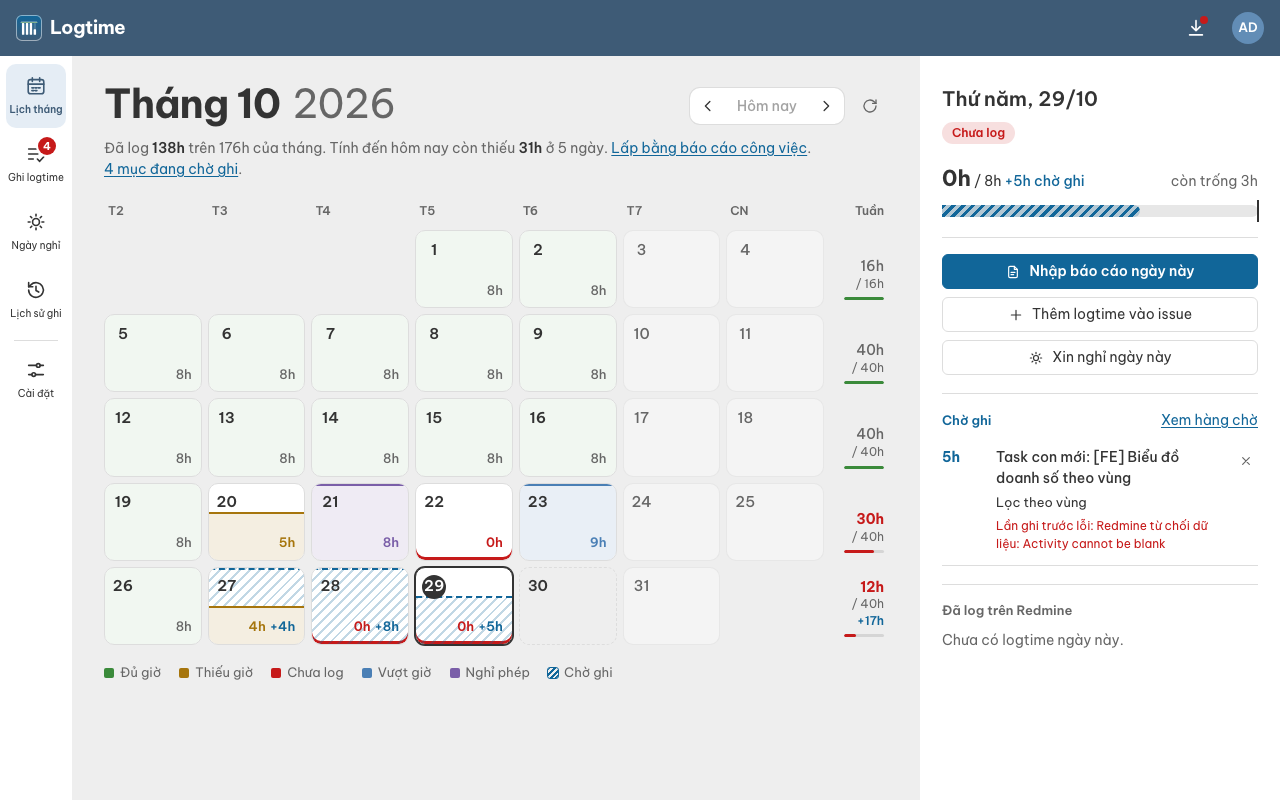
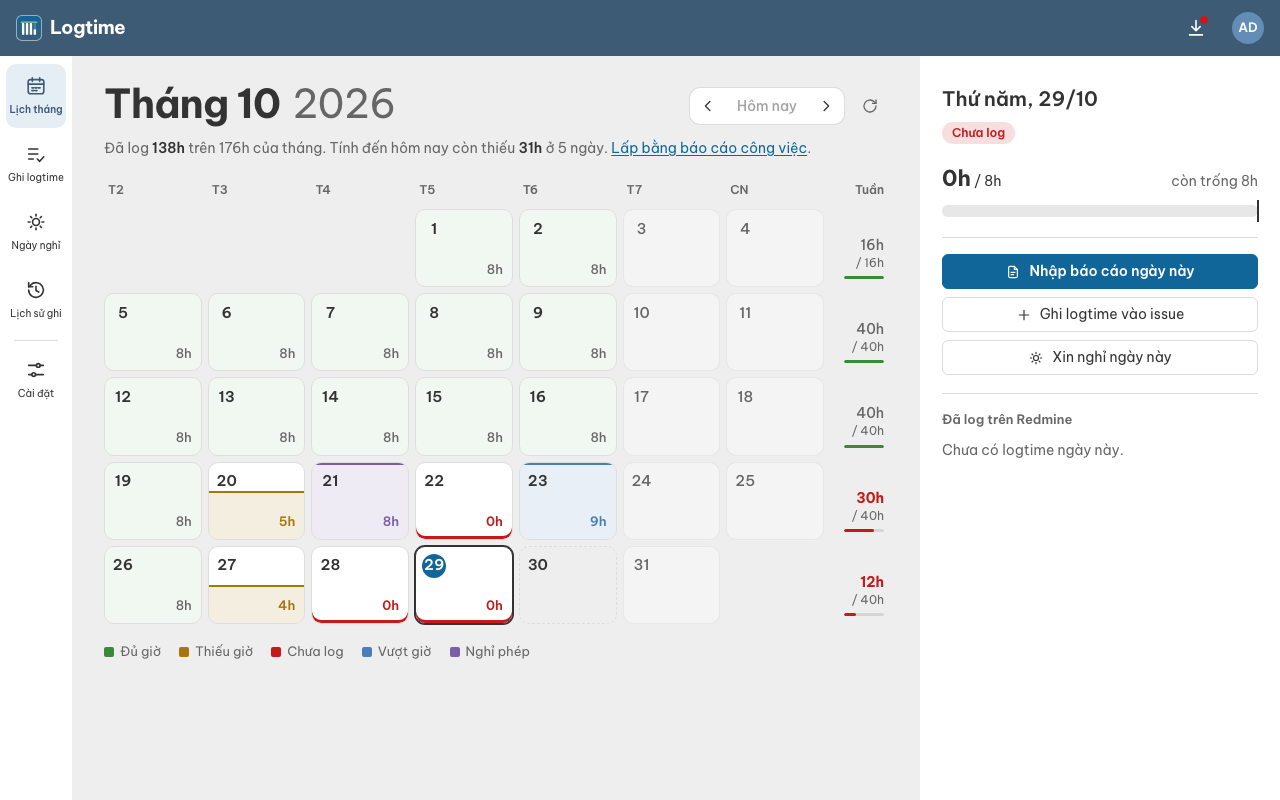
docs: describe the direct write flow and refresh screenshots

diff --git a/src-tauri/src/state.rs b/src-tauri/src/state.rs
@@ -11,7 +11,7 @@ use logtime_engine::Store;
 use crate::secrets::Credentials;
 
 /// App-wide state: settings are persisted as JSON in the OS config dir, the
-/// draft and execution history in SQLite in the data dir.
+/// write history (batches) in SQLite in the data dir.
 pub struct AppState {
     settings_path: PathBuf,
     settings: Mutex<Settings>,

diff --git a/docs/development.md b/docs/development.md
@@ -114,7 +114,7 @@ Ví dụ `local_e2e` giữ lại task con sau khi hoàn tác logtime. Dừng mô
 
 Không có hàng chờ: người dùng chỉnh kết quả (task cha, task con, giờ) rồi xác nhận trong popup; app gửi một `WritePlan` qua `write_plan`. Mỗi lần ghi là một lô trong SQLite: mục lỗi nằm lại trong lô để `retry_batch` gửi lại, mục đã ghi không bao giờ gửi lần hai (task con dùng `key` làm khoá chống trùng). Hoàn tác chỉ xóa logtime của lô, giữ task con.
 
-App gọi `claude -p` với `mcp-redmine` qua `uvx` và `REDMINE_READ_ONLY=1`. Claude tìm cấu trúc và đề xuất công việc; app chia giờ theo bước 0,5 giờ, tính cả giờ đã ghi và đang chờ. Giữ nguyên quyền đọc của AI khi thay đổi tích hợp.
+App gọi `claude -p` với `mcp-redmine` qua `uvx` và `REDMINE_READ_ONLY=1`. Claude tìm cấu trúc và đề xuất công việc, không quyết định số giờ; app chia giờ theo bước 0,5 giờ cho đủ giờ mỗi ngày, trừ giờ đã có trên Redmine và giờ nghỉ. Giữ nguyên quyền đọc của AI khi thay đổi tích hợp.
 
 ### Google Chat
 
